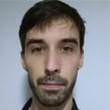
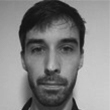
Modified illustrations and dev team pictures. Added some new todos

diff --git a/public/css/main.css b/public/css/main.css
@@ -1,2 +1,2 @@
-*{margin:0;padding:0;box-sizing:border-box;font-size:16px;font-weight:400;color:#303030}body{font-family:'Rubik', sans-serif;background:#F6F6FA;height:100%;min-height:100vh;display:flex;flex-direction:column}.generalH1{font-size:2.2rem;font-weight:500;align-self:center;margin-top:3em}.generalH2{font-size:1.6rem;font-weight:500;margin-bottom:1em}nav{position:fixed;top:0;left:0;display:flex;width:100%;height:60px;background:#fff;align-items:center;justify-content:flex-end;padding:0 5%;box-shadow:0px 0px 24px rgba(0,0,0,0.04)}nav .logoA{margin-right:auto}nav .logoA .logo{width:56px}nav .mainA{font-size:1.1rem;font-weight:500;text-decoration:none;padding:.7em;margin-right:1.8em}nav .mainA:hover{color:#000;transition:.2s}nav .secondaryA{font-weight:500;font-size:.95rem;text-decoration:none;padding:.7em;margin-left:.5em;color:#556EE6}nav .secondaryA:hover{color:#1b36be;transition:.2s}footer{width:100%;background:#2A3042;display:flex;align-items:center;padding:1em 15%;padding-top:3em}footer .footerOut{width:50%;display:flex;flex-direction:column;align-items:center}footer .footerOut .regFP{color:#E5E5E5;margin-bottom:.5em}footer .footerOut .flagImg{width:100px;margin-bottom:.8em}footer .footerIn{width:420px;align-self:flex-end;display:flex;justify-content:center}footer .footerIn .footerA{color:#E5E5E5;padding:.4em;margin:0 .4em}footer .footerIn .footerA:hover{color:#fff}.coverImg{position:fixed;top:60px;z-index:-1;left:0;background:url("/images/coverImg.jpg");width:100%;height:500px;background-size:cover;background-position:center}.pageContentContainer{margin-top:560px;background:#F6F6FA;width:100%;display:flex;flex-direction:column;align-items:center}.pageContentContainer .whatContainer{display:flex;max-width:1200px;align-self:center;margin-top:3em;margin-bottom:12em}.pageContentContainer .whatContainer .whatPs{margin-right:5em}.pageContentContainer .whatContainer .whatPs .whatP{margin-bottom:.8em}.pageContentContainer .whatContainer .whatIll{width:450px}.pageContentContainer .cardContainer{width:95%;max-width:1200px;margin-bottom:2.5em;box-shadow:0px 0px 24px rgba(0,0,0,0.03);border-radius:5px;display:flex;padding:3rem;align-items:center;background:white}.pageContentContainer .cardContainer .cardLeft{margin-right:3em}.pageContentContainer .cardContainer .cardLeft .cardBtn{border-radius:5px;background:#556EE6;color:#fff;font-size:.9rem;padding:.5em 1.1em;border:transparent;margin-top:1.6em}.pageContentContainer .cardContainer .cardLeft .cardBtn:hover{background:#1b36be;cursor:pointer;transition:.2s}.pageContentContainer .cardContainer .cardImg{width:300px}.pageContentContainer .userCards{display:flex;flex-wrap:wrap;justify-content:center;align-items:flex-start;margin-top:3em;margin-bottom:6em;width:95%;max-width:1200px}.pageContentContainer .userCards .userCard{display:flex;flex-direction:column;align-items:center;padding:2rem;box-shadow:0px 0px 24px rgba(0,0,0,0.03);border-radius:5px;background:white;margin-right:2em;width:calc(33.333% - 1.34em);margin-bottom:2em}.pageContentContainer .userCards .userCard .ucImg{border-radius:50%;width:80px;margin-bottom:1em}.pageContentContainer .userCards .userCard .ucName{font-size:1.1rem;font-weight:500;margin-bottom:.2em}.pageContentContainer .userCards .userCard .ucLinks{list-style-type:none;display:flex;width:100%;justify-content:center;flex-wrap:wrap;margin-top:1.6em}.pageContentContainer .userCards .userCard .ucLinks .ucLi{margin-bottom:.65em}.pageContentContainer .userCards .userCard .ucLinks .ucLi .ucA{background:#556EE6;color:white;font-size:.85rem;padding:.12em .35em;margin:0 .4em;text-decoration:none;border-radius:3px}.pageContentContainer .userCards .userCard .ucLinks .ucLi .ucA:hover{background:#1b36be;transition:.2s}.pageContentContainer .userCards .userCard:nth-child(3n){margin-right:0}
+*{margin:0;padding:0;box-sizing:border-box;font-size:16px;font-weight:400;color:#303030}body{font-family:'Rubik', sans-serif;background:#F6F6FA;height:100%;min-height:100vh;display:flex;flex-direction:column}.generalH1{font-size:2.2rem;font-weight:500;align-self:center;margin-top:3em}.generalH2{font-size:1.6rem;font-weight:500;margin-bottom:1em}nav{position:fixed;top:0;left:0;display:flex;width:100%;height:60px;background:#fff;align-items:center;justify-content:flex-end;padding:0 5%;box-shadow:0px 0px 24px rgba(0,0,0,0.04)}nav .logoA{margin-right:auto}nav .logoA .logo{width:56px}nav .mainA{font-size:1.1rem;font-weight:500;text-decoration:none;padding:.7em;margin-right:1.8em}nav .mainA:hover{color:#000;transition:.2s}nav .secondaryA{font-weight:500;font-size:.95rem;text-decoration:none;padding:.7em;margin-left:.5em;color:#556EE6}nav .secondaryA:hover{color:#1b36be;transition:.2s}footer{width:100%;background:#2A3042;display:flex;align-items:center;padding:1em 15%;padding-top:3em}footer .footerOut{width:50%;display:flex;flex-direction:column;align-items:center}footer .footerOut .regFP{color:#E5E5E5;margin-bottom:.5em}footer .footerOut .flagImg{width:100px;margin-bottom:.8em}footer .footerIn{width:420px;align-self:flex-end;display:flex;justify-content:center}footer .footerIn .footerA{color:#E5E5E5;padding:.4em;margin:0 .4em}footer .footerIn .footerA:hover{color:#fff}.coverImg{position:fixed;top:60px;z-index:-1;left:0;background:url("/images/coverImg.jpg");width:100%;height:500px;background-size:cover;background-position:center}.pageContentContainer{margin-top:560px;background:#F6F6FA;width:100%;display:flex;flex-direction:column;align-items:center}.pageContentContainer .whatContainer{display:flex;max-width:1200px;align-self:center;margin-top:3em;margin-bottom:12em}.pageContentContainer .whatContainer .whatPs{margin-right:5em}.pageContentContainer .whatContainer .whatPs .whatP{margin-bottom:.8em}.pageContentContainer .whatContainer .whatIll{width:450px}.pageContentContainer .cardContainer{width:95%;max-width:1200px;margin-bottom:2.5em;box-shadow:0px 0px 24px rgba(0,0,0,0.03);border-radius:5px;display:flex;padding:3rem;align-items:center;background:white}.pageContentContainer .cardContainer .cardLeft{margin-right:3em}.pageContentContainer .cardContainer .cardLeft .cardBtn{border-radius:5px;background:#556EE6;color:#fff;font-size:.9rem;padding:.5em 1.1em;border:transparent;margin-top:1.6em}.pageContentContainer .cardContainer .cardLeft .cardBtn:hover{background:#1b36be;cursor:pointer;transition:.2s}.pageContentContainer .cardContainer .cardImg{width:300px}.pageContentContainer .userCards{display:flex;flex-wrap:wrap;justify-content:center;align-items:flex-start;margin-top:3em;margin-bottom:6em;width:95%;max-width:1200px}.pageContentContainer .userCards .userCard{display:flex;flex-direction:column;align-items:center;padding:2rem;box-shadow:0px 0px 24px rgba(0,0,0,0.03);border-radius:5px;background:white;margin-right:2em;width:calc(33.333% - 1.34em);margin-bottom:2em}.pageContentContainer .userCards .userCard .ucImg{border-radius:50%;width:80px;margin-bottom:1em}.pageContentContainer .userCards .userCard .ucName{font-size:1.1rem;font-weight:500;margin-bottom:.2em}.pageContentContainer .userCards .userCard .ucLinks{list-style-type:none;display:flex;width:100%;justify-content:center;flex-wrap:wrap;margin-top:1.6em}.pageContentContainer .userCards .userCard .ucLinks .ucLi{margin-bottom:.65em}.pageContentContainer .userCards .userCard .ucLinks .ucLi .ucA{background:#556EE6;color:white;font-size:.85rem;padding:.12em .35em;margin:0 .4em;text-decoration:none;border-radius:3px}.pageContentContainer .userCards .userCard .ucLinks .ucLi .ucA:hover{background:#1b36be;transition:.2s}.pageContentContainer .userCards .userCard:nth-child(3n),.pageContentContainer .userCards .userCard:nth-child(7){margin-right:0}
 /*# sourceMappingURL=main.css.map */

diff --git a/scss/main.scss b/scss/main.scss
@@ -267,7 +267,7 @@ footer {
         }
       }
 
-      &:nth-child(3n) {
+      &:nth-child(3n), &:nth-child(7) {
         margin-right: 0;
       }
     }
